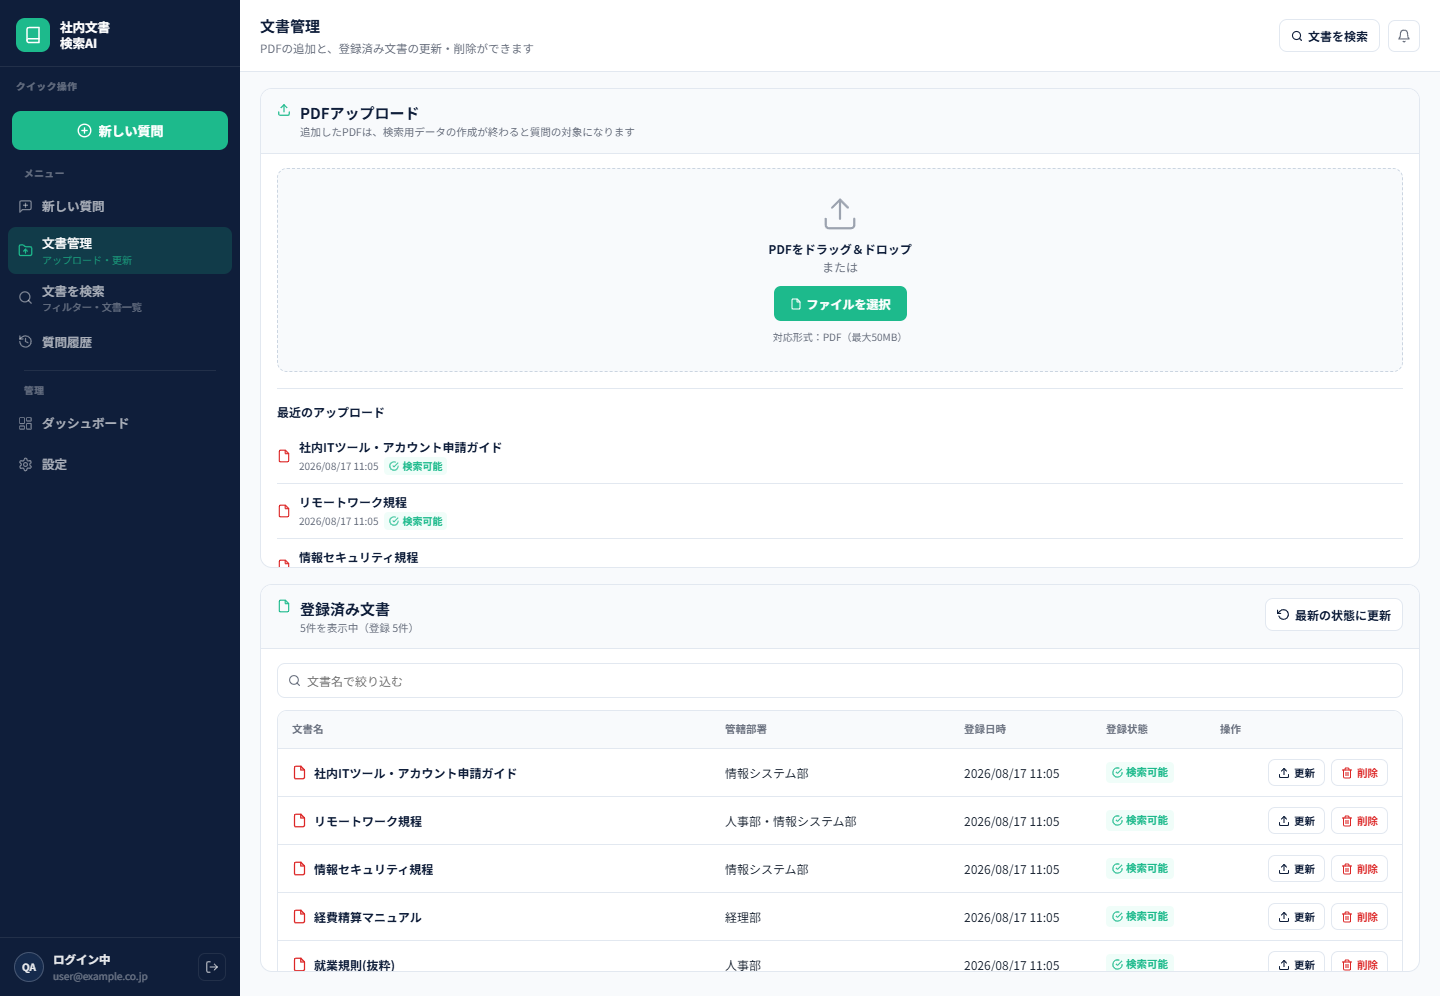
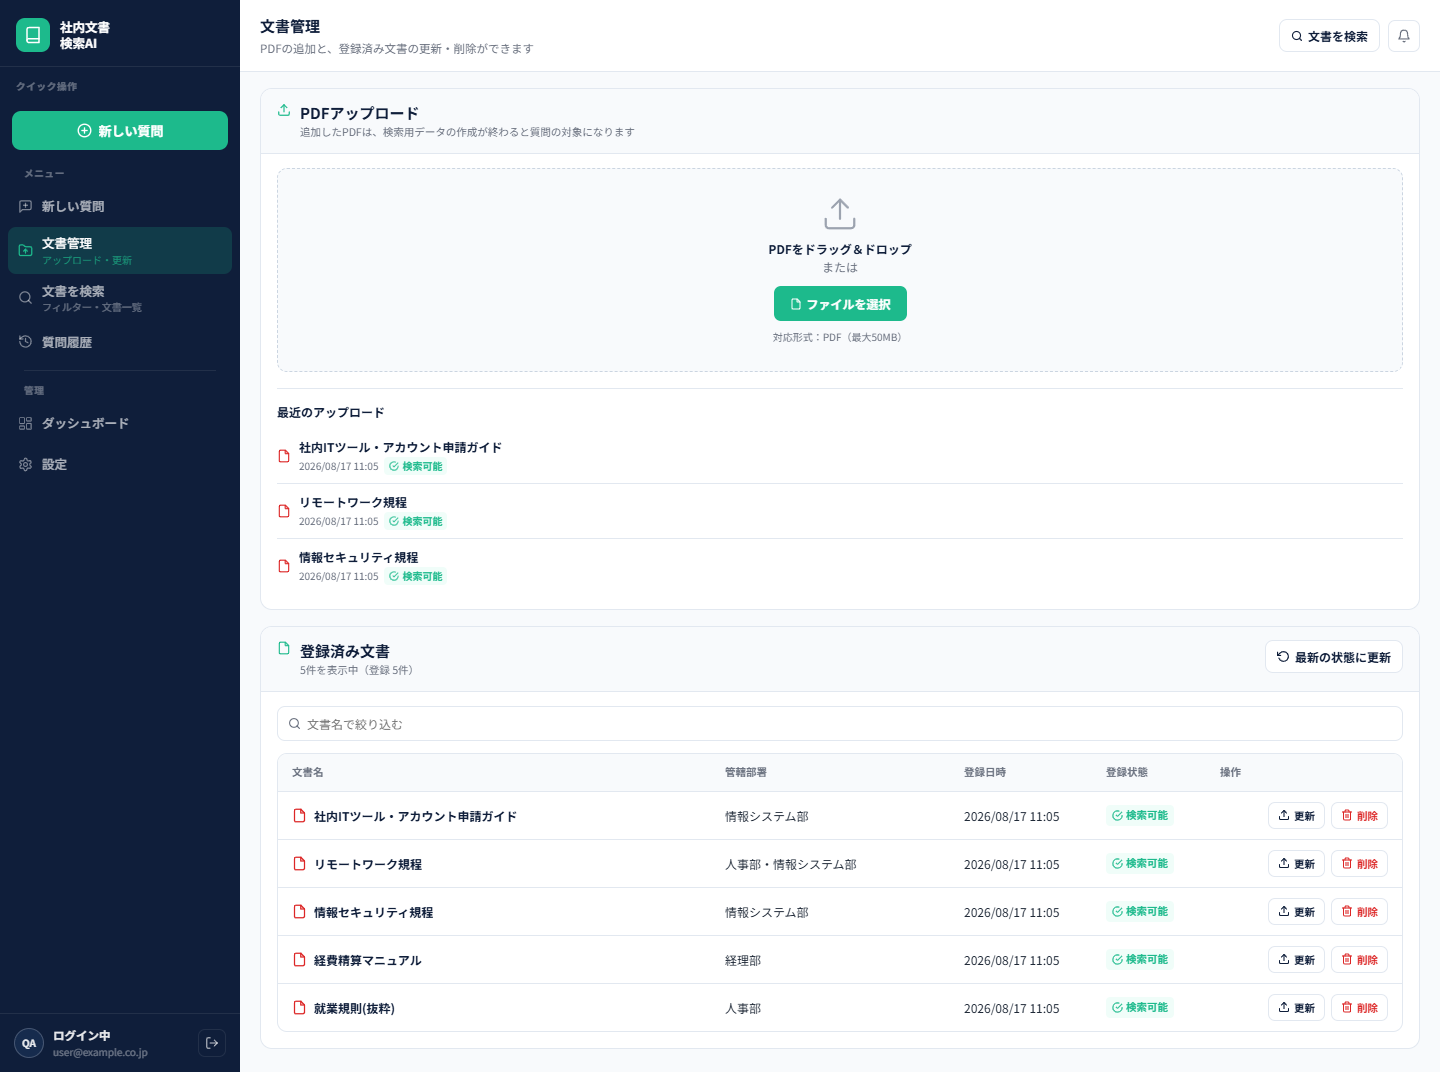
fix: 画面外の文書へスクロールで到達できない不具合を修正
文書管理画面で、登録されている文書の一部が画面外に隠れたまま
スクロールでも見られない状態になっていた。

カードが親の空きに合わせて縮み、はみ出した中身が切り取られる一方で、
親は「はみ出していない」と判断してスクロールバーを出さないため、
画面外の内容へ到達する手段が無くなっていた。

カードの高さを内容に合わせて保ち、親側でスクロールするよう修正した。
全画面を4つの解像度で計測し、到達不能な要素が無いことを確認している。

あわせて、ログイン・登録フォームでJavaScriptが読み込めなかった場合に
パスワードがURLへ載る問題を修正し、
文書管理のスクリーンショットを撮り直した。

diff --git a/src/components/auth/RegisterForm.tsx b/src/components/auth/RegisterForm.tsx
@@ -144,7 +144,17 @@ export function RegisterForm({ allowedDomain }: RegisterFormProps) {
           社内メールアドレスで登録してください。確認メールをお送りします。
         </p>
 
-        <form className={styles.form} onSubmit={handleSubmit} noValidate>
+        {/*
+          method="post" を付ける理由（見た目には影響しない）。
+
+          通常はJavaScriptの onSubmit が送信を止めてAPIを呼ぶ。
+          しかしJavaScriptの読み込みに失敗した場合、ブラウザは素のフォーム送信を行う。
+          method の既定は GET のため、そのとき**入力したパスワードがURLへ載る**
+          （履歴・アクセスログ・Refererに残る）。実際に検証環境で発生した。
+
+          post にしておけば、同じ状況でもパスワードがURLに現れない。
+        */}
+        <form className={styles.form} method="post" onSubmit={handleSubmit} noValidate>
           <label className={styles.label} htmlFor="register-email">
             メールアドレス
           </label>

diff --git a/src/components/auth/LoginForm.tsx b/src/components/auth/LoginForm.tsx
@@ -118,7 +118,17 @@ export function LoginForm({
           社内アカウントでログインしてください。ログインした方のみ社内文書を検索できます。
         </p>
 
-        <form className={styles.form} onSubmit={handleSubmit} noValidate>
+        {/*
+          method="post" を付ける理由（見た目には影響しない）。
+
+          通常はJavaScriptの onSubmit が送信を止めてAPIを呼ぶ。
+          しかしJavaScriptの読み込みに失敗した場合、ブラウザは素のフォーム送信を行う。
+          method の既定は GET のため、そのとき**入力したパスワードがURLへ載る**
+          （履歴・アクセスログ・Refererに残る）。実際に検証環境で発生した。
+
+          post にしておけば、同じ状況でもパスワードがURLに現れない。
+        */}
+        <form className={styles.form} method="post" onSubmit={handleSubmit} noValidate>
           <label className={styles.label} htmlFor="login-email">
             メールアドレス
           </label>

diff --git a/src/components/documents/DocumentsView.module.css b/src/components/documents/DocumentsView.module.css
@@ -30,6 +30,17 @@
   border: 1px solid var(--border);
   border-radius: 12px;
   overflow: hidden;
+  /*
+   * 縦方向に縮ませない。
+   *
+   * 親（.body）は縦並びのスクロール領域だが、flexの既定では子が
+   * 空きに合わせて縮む。このカードは overflow: hidden（角丸を保つため）なので、
+   * 縮むと中身がそのまま切り取られ、しかも親は「はみ出していない」と判断して
+   * スクロールバーを出さない。結果、画面外の内容へ到達できなくなる。
+   *
+   * 実測：スマホ幅で610pxぶんの文書一覧が到達不能だった。
+   */
+  flex-shrink: 0;
 }
 
 .cardHeader {

diff --git a/src/components/documents/UploadArea.module.css b/src/components/documents/UploadArea.module.css
@@ -10,6 +10,17 @@
   border: 1px solid var(--border);
   border-radius: 12px;
   overflow: hidden;
+  /*
+   * 縦方向に縮ませない。
+   *
+   * 親（.body）は縦並びのスクロール領域だが、flexの既定では子が
+   * 空きに合わせて縮む。このカードは overflow: hidden（角丸を保つため）なので、
+   * 縮むと中身がそのまま切り取られ、しかも親は「はみ出していない」と判断して
+   * スクロールバーを出さない。結果、画面外の内容へ到達できなくなる。
+   *
+   * 実測：スマホ幅で610pxぶんの文書一覧が到達不能だった。
+   */
+  flex-shrink: 0;
 }
 
 .cardHeader {

diff --git a/src/components/dashboard/DashboardView.module.css b/src/components/dashboard/DashboardView.module.css
@@ -113,6 +113,18 @@
   border: 1px solid var(--border);
   border-radius: 12px;
   overflow: hidden;
+
+  /*
+   * 縦方向に縮ませない（文書管理画面のカードと同じ理由）。
+   *
+   * 親は縦並びのスクロール領域だが、flexの既定では子が空きに合わせて縮む。
+   * このカードは overflow: hidden なので、縮むと中身が切り取られたうえに
+   * 親が「はみ出していない」と判断してスクロールバーを出さず、
+   * 画面外の内容へ到達できなくなる。
+   *
+   * 実測：画面の高さが560pxのとき31pxぶんが到達不能だった。
+   */
+  flex-shrink: 0;
 }
 
 .cardHeader {
